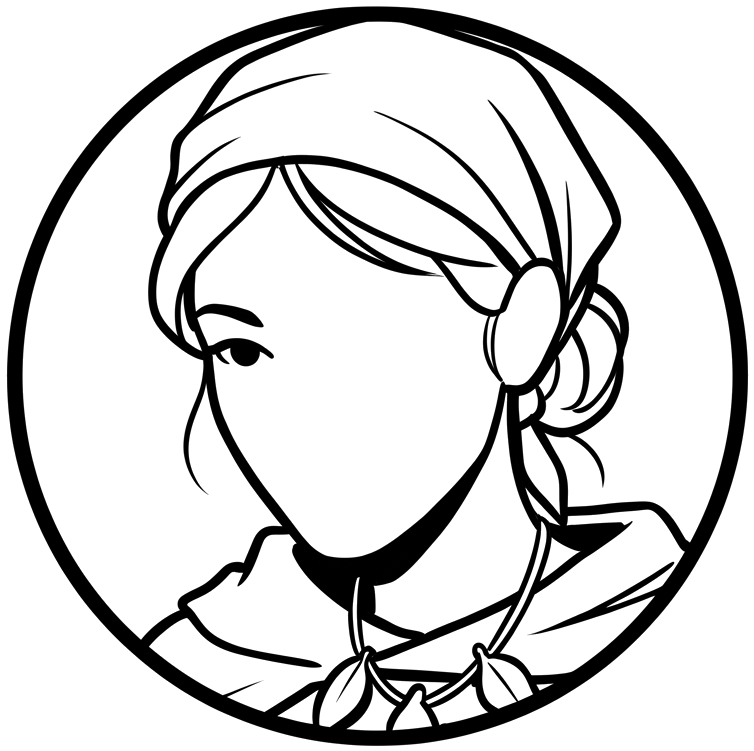
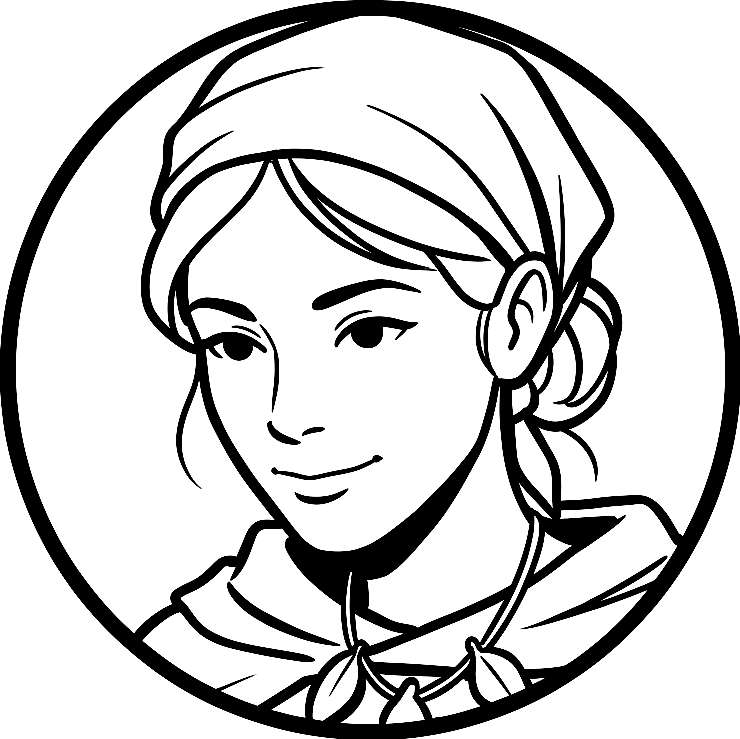
Fix fight/equip/drink log messages to use flavor names, plus pending champion/UI work
- Fight, equip, and drink log messages now show flavor names (e.g.
  "The Lich", "Excalibur", "Large Potion") instead of raw poker card
  names (e.g. "4 of Spades"), looked up via monsterNameFor()/
  weaponNameFor()/potionNameFor() keyed off baseRank.
- Includes other in-progress champion artwork/UI changes already
  present in the working tree.

diff --git a/js/ui.js b/js/ui.js
@@ -147,6 +147,94 @@ function renderChampionBadge() {
   badge.title = champ ? `${champ.name} — ${champ.description}` : '';
 }
 
+/** Returns { total, filled, label } describing the current champion's
+ * repeating-passive progress bar (see #champion-ability-bar in style.css),
+ * or null if the current champion has no such bar (Berserker, or no
+ * champion picked yet). `filled` is always in [0, total].
+ *   - Paladin: 5 segments, one per kill since the last heal-trigger — heals
+ *     3 HP every 5th kill (state.monstersDefeated), so filled cycles
+ *     1..5 and shows a full bar right after a heal instead of resetting to
+ *     0 in the same instant it triggers (state.monstersDefeated itself
+ *     never resets — it's a running total — so the cycle is derived here).
+ *   - Rogue: 2 segments, one per room fled in a row (state.fleeStreak,
+ *     already reset to 0 whenever a room is completed or a new game
+ *     starts — see resolveCard()/fleeRoom() in state.js).
+ *   - Herbalist: 2 segments, one per potion that actually healed this room
+ *     (state.potionsDrunkThisRoom, already reset to 0 on every new room —
+ *     see resolveCard()/fleeRoom() in state.js). */
+function championAbilityProgress() {
+  if (state.champion === 'paladin') {
+    const total = 5;
+    const filled = state.monstersDefeated === 0 ? 0 : ((state.monstersDefeated - 1) % total) + 1;
+    return { total, filled, label: `${filled} / ${total} kills until Paladin's heal` };
+  }
+  if (state.champion === 'rogue') {
+    const total = 2;
+    return { total, filled: Math.min(state.fleeStreak, total), label: `${state.fleeStreak} / ${total} rooms fled in a row` };
+  }
+  if (state.champion === 'herbalist') {
+    const total = 2;
+    return { total, filled: Math.min(state.potionsDrunkThisRoom, total), label: `${state.potionsDrunkThisRoom} / ${total} potions healed this room` };
+  }
+  return null;
+}
+
+// Paladin's full-bar heal celebration (see renderChampionAbilityBar()'s
+// animateHeal option below): hold the full 5/5 bar this long, then drain it
+// back to empty over this long. The drain duration is kept in sync with the
+// .ability-bar--draining transition-duration in style.css.
+const PALADIN_HEAL_HOLD_MS = 1000;
+const PALADIN_HEAL_DRAIN_MS = 1000;
+
+/** Fills #champion-ability-bar with one segment per championAbilityProgress()
+ * step, or hides it entirely for a champion without one. Called from
+ * renderAll(), so it stays current after every fight/flee/potion/new room.
+ * @param options.animateHeal - pass true only on the fight that completed a
+ *   Paladin 5-kill cycle (result.paladinCycleComplete from fightMonster(),
+ *   threaded through resolveCard()): the bar still renders full immediately
+ *   (state already reflects the completed cycle), but after a beat it fades
+ *   back to empty instead of silently jumping to the next cycle's 1/5 on the
+ *   following kill, so the heal reads as a clear, celebratory beat. */
+function renderChampionAbilityBar(options = {}) {
+  const bar = document.getElementById('champion-ability-bar');
+  const progress = championAbilityProgress();
+  bar.classList.remove('ability-bar--draining');
+
+  if (!progress) {
+    bar.classList.add('hidden');
+    bar.innerHTML = '';
+    bar.title = '';
+    return;
+  }
+
+  bar.classList.remove('hidden');
+  bar.title = progress.label;
+  bar.innerHTML = '';
+  for (let i = 0; i < progress.total; i++) {
+    const segment = document.createElement('div');
+    segment.className = 'ability-segment' + (i < progress.filled ? ' ability-segment--filled' : '');
+    bar.appendChild(segment);
+  }
+
+  if (options.animateHeal) {
+    setTimeout(() => {
+      bar.classList.add('ability-bar--draining');
+      // Two nested rAFs so the browser paints the (slow-transition) class
+      // before the filled class comes off — otherwise the removal can land
+      // in the same style-recalc as the class add and skip the transition
+      // entirely, jumping straight to empty instead of fading.
+      requestAnimationFrame(() => {
+        requestAnimationFrame(() => {
+          bar.querySelectorAll('.ability-segment--filled').forEach((seg) => {
+            seg.classList.remove('ability-segment--filled');
+          });
+        });
+      });
+      setTimeout(() => bar.classList.remove('ability-bar--draining'), PALADIN_HEAL_DRAIN_MS);
+    }, PALADIN_HEAL_HOLD_MS);
+  }
+}
+
 function renderHp() {
   const pct = Math.max(0, Math.min(100, (state.hp / state.maxHp) * 100));
   const fill = document.getElementById('hp-fill');
@@ -431,6 +519,7 @@ function renderChampionSelect() {
 
 function renderAll() {
   renderChampionBadge();
+  renderChampionAbilityBar();
   renderHp();
   renderRoom();
   renderDeckCount();
@@ -562,20 +651,20 @@ function animateWeaponToSlot(cardEl, onDone) {
 
 // --- weapon-attack animation -------------------------------------------------
 
-// Total ~2s, split into three legs so it reads as one fluid swing rather than
-// a linear slide: swing out to the monster (ease-in, gathering speed), a
+// Total ~1.5s, split into three legs so it reads as one fluid swing rather
+// than a linear slide: swing out to the monster (ease-in, gathering speed), a
 // brief pause right on impact, then swing back into the weapon slot
 // (ease-out, settling in). Driven by transform transitions rather than a
 // fixed @keyframes animation because the start (weapon slot) and end (the
 // clicked monster card) positions are measured at runtime and differ every
 // time.
-const WEAPON_ATTACK_OUT_MS = 800;
-const WEAPON_ATTACK_IMPACT_MS = 150;
-const WEAPON_ATTACK_RETURN_MS = 1050;
+const WEAPON_ATTACK_OUT_MS = 600;
+const WEAPON_ATTACK_IMPACT_MS = 113;
+const WEAPON_ATTACK_RETURN_MS = 788;
 
 /** Animates the actual equipped-weapon card (not a clone) flying out of the
  * weapon slot to strike `monsterEl`, then flying back into the slot — about
- * 2 seconds total. Moving the real element (rather than a cloned stand-in
+ * 1.5 seconds total. Moving the real element (rather than a cloned stand-in
  * left floating over the slot) means there's never a duplicate card visible
  * anywhere — the slot is simply empty-looking for the instant its card is
  * "out" fighting. `onImpact()` fires the moment the weapon visually lands

diff --git a/js/state.js b/js/state.js
@@ -134,9 +134,15 @@ function fightMonster(card, useWeapon = true) {
   // always "defeated" once its card resolves — there's no monster HP to
   // track separately.
   let paladinHeal = 0;
+  // True on the exact kill that completes a 5-kill cycle, even if the heal
+  // itself was capped to 0 HP by an already-full health bar — the ability
+  // bar (see renderChampionAbilityBar() in ui.js) still plays its "full,
+  // then drain" animation on the milestone kill either way.
+  let paladinCycleComplete = false;
   if (state.champion === 'paladin') {
     state.monstersDefeated += 1;
     if (state.monstersDefeated % 5 === 0) {
+      paladinCycleComplete = true;
       const hpBefore = state.hp;
       state.hp = Math.min(state.hp + 3, state.maxHp);
       paladinHeal = state.hp - hpBefore;
@@ -144,39 +150,47 @@ function fightMonster(card, useWeapon = true) {
   }
 
   let message;
-  const how = weaponUsable ? ` with your ${weapon.name}` : ' bare-handed';
+  // Show flavor names (e.g. "Shadow Assassin", "Mjölnir"), never raw poker
+  // card names (e.g. "8 of Clubs", "9 of Diamonds"), in the fight log.
+  // Monster lookup uses baseRank so a weakened monster (see
+  // weakenMonster()) still shows the right creature.
+  const monsterLabel = monsterNameFor(card.baseRank) || card.name;
+  const weaponLabel = weaponUsable ? weaponNameFor(weapon.baseRank) || weapon.name : null;
+  const how = weaponUsable ? ` with your ${weaponLabel}` : ' bare-handed';
   if (weaponUsable && weapon.effect === 'vampiric') {
     state.hp = Math.min(state.hp + 1, state.maxHp);
-    message = `Fought ${card.name}${how} — took ${damage} damage. Vampiric weapon healed 1 HP.`;
+    message = `Fought ${monsterLabel}${how} — took ${damage} damage. Vampiric weapon healed 1 HP.`;
   } else if (weaponUsable && weapon.effect === 'electric') {
-    message = `Fought ${card.name}${how} — took ${damage} damage. Electric surge weakened the other monsters!`;
+    message = `Fought ${monsterLabel}${how} — took ${damage} damage. Electric surge weakened the other monsters!`;
   } else {
-    message = `Fought ${card.name}${how} — took ${damage} damage.`;
+    message = `Fought ${monsterLabel}${how} — took ${damage} damage.`;
   }
   if (paladinHeal > 0) {
     message += ` Paladin's faith healed ${paladinHeal} HP.`;
   }
 
-  return { message, weakenedIds };
+  return { message, weakenedIds, paladinCycleComplete };
 }
 
 function equipWeapon(card) {
   state.equippedWeapon = card;
   state.weaponMaxMonster = null; // fresh weapon: no restriction until first use
-  return { message: `Equipped ${card.name}.` };
+  const weaponLabel = weaponNameFor(card.baseRank) || card.name;
+  return { message: `Equipped ${weaponLabel}.` };
 }
 
 function drinkPotion(card) {
   // Normally only the first potion in a room heals; the Herbalist champion
   // raises that cap to two.
+  const potionLabel = potionNameFor(card.baseRank) || card.name;
   const maxHealingPotions = state.champion === 'herbalist' ? 2 : 1;
   if (state.potionsDrunkThisRoom >= maxHealingPotions) {
-    return { message: `Drank ${card.name} — already healed this room, no effect.` };
+    return { message: `Drank ${potionLabel} — already healed this room, no effect.` };
   }
   const healed = Math.min(card.rank, state.maxHp - state.hp);
   state.hp += healed;
   state.potionsDrunkThisRoom += 1;
-  return { message: `Drank ${card.name} — healed ${healed} HP.` };
+  return { message: `Drank ${potionLabel} — healed ${healed} HP.` };
 }
 
 /**

diff --git a/style.css b/style.css
@@ -674,6 +674,12 @@ button:disabled::before {
   height: 5rem;
 }
 
+.champion-select-portrait img {
+  width: 100%;
+  height: 100%;
+  object-fit: contain;
+}
+
 .champion-select-portrait .portrait-placeholder {
   font-size: 2rem;
 }
@@ -749,6 +755,18 @@ button:disabled::before {
   font-size: 0.9rem;
 }
 
+/* Stacks the HP bar and the champion-ability bar directly beneath it in a
+   column, both the same width (11.25rem, matching #hp-bar) — kept as its
+   own wrapper rather than putting the ability bar inside #hp-bar-container
+   so that container's 50%/50% floating-number anchor (see
+   #hp-float-container below) stays centered on the HP bar alone, not on
+   the taller combined column. */
+#hp-bar-column {
+  display: flex;
+  flex-direction: column;
+  gap: 0.25rem;
+}
+
 /* Positioning anchor for the floating +N / -N numbers (#hp-float-container),
    which need to sit centered above the bar regardless of its own size. */
 #hp-bar-container {
@@ -798,6 +816,42 @@ button:disabled::before {
   color: var(--text-muted);
   min-width: 4.375rem;
   text-align: left;
+}
+
+/* Thin per-champion progress bar directly under the HP bar, same width
+   (11.25rem, via #hp-bar-column above) — shows progress toward whichever
+   champion's passive triggers repeatedly during a run (Paladin's every-5th-
+   kill heal, Rogue's flee streak, Herbalist's potions-per-room). Segment
+   count varies by champion (buildChampionAbilitySegments() in js/ui.js);
+   hidden entirely for a champion without one of these (Berserker) or no
+   champion picked. Segments are always green when filled — deliberately
+   not tied to the card-tier color system, this is a simple fill gauge. */
+#champion-ability-bar {
+  display: flex;
+  gap: 2px;
+  width: 11.25rem;
+  height: 0.25rem;
+}
+
+.ability-segment {
+  flex: 1;
+  border-radius: 0.125rem;
+  background: rgba(255, 255, 255, 0.08);
+  box-shadow: inset 0 1px 2px rgba(0, 0, 0, 0.5);
+  transition: background 0.25s ease, box-shadow 0.25s ease;
+}
+
+.ability-segment--filled {
+  background: var(--success);
+  box-shadow: 0 0 4px rgba(46, 204, 113, 0.7);
+}
+
+/* Paladin's full-bar heal celebration (see renderChampionAbilityBar()'s
+   animateHeal option in js/ui.js): scoped to this state only, so the bar's
+   normal instant-ish segment updates elsewhere (0.25s, above) aren't slowed
+   down — only the post-heal drain from 5/5 back to empty fades over ~1s. */
+#champion-ability-bar.ability-bar--draining .ability-segment {
+  transition: background 1s ease, box-shadow 1s ease;
 }
 
 /* --- floating "+7" / "-4" combat numbers ------------------------------- */

diff --git a/js/main.js b/js/main.js
@@ -111,6 +111,7 @@ function applyResolve(cardId, options) {
   showHpDelta(state.hp - hpBefore);
   renderWeaponSlot();
   renderMessage(result.message);
+  renderChampionAbilityBar({ animateHeal: !!result.paladinCycleComplete });
 
   // Electric weapon effect: play a "-1" + shake on each monster it weakened,
   // while their card elements are still the ones actually in the DOM.
@@ -250,6 +251,7 @@ document.getElementById('flee-btn').addEventListener('click', () => {
   renderRoom();
   renderDeckCount();
   renderFleeButton();
+  renderChampionAbilityBar();
 });
 
 document.getElementById('weapon-toggle').addEventListener('change', (event) => {

diff --git a/index.html b/index.html
@@ -31,9 +31,12 @@
 
     <div id="hp-bar-wrapper">
       <div id="champion-badge"></div>
-      <div id="hp-bar-container">
-        <div id="hp-bar"><div id="hp-fill"></div></div>
-        <div id="hp-float-container"></div>
+      <div id="hp-bar-column">
+        <div id="hp-bar-container">
+          <div id="hp-bar"><div id="hp-fill"></div></div>
+          <div id="hp-float-container"></div>
+        </div>
+        <div id="champion-ability-bar" class="hidden"></div>
       </div>
       <span id="hp-text">20 / 20 HP</span>
     </div>

diff --git a/js/weapon-icons.js b/js/weapon-icons.js
@@ -7,8 +7,8 @@
 // ---------------------------------------------------------------------------
 
 const WEAPON_NAMES = {
-  2: 'Wooden Club (Damaged)',
-  3: 'Old Sword (Damaged)',
+  2: 'Wooden Club',
+  3: 'Damaged Sword',
   4: 'Spear',
   5: 'Sword',
   6: 'Battle Axe',

diff --git a/CLAUDE.md b/CLAUDE.md
@@ -450,13 +450,44 @@ card game by Zach Gage & Kurt Bieg, built with plain HTML/CSS/JavaScript
   than a rank — champions aren't cards) came from a user-supplied 2x2
   sprite sheet (`images/ChampionsIcons.jpeg`, kept as source reference:
   top-left Paladin, top-right Herbalist, bottom-left Rogue, bottom-right
-  Berserker), cropped the same way as the monster/weapon art — alpha = 255
-  − min(R,G,B) per pixel (transparent background, forced-black linework),
-  largest-connected-component only (drops the sheet's circle-border
-  fragments outside each portrait), then tightly cropped to that shape's
-  bounding box with a small padding. Unlike the monster/weapon sheets these
-  are actual line-art portraits (not silhouettes), but the same alpha trick
-  works fine since the source art is pure black-on-white to begin with.
+  Berserker), cropped similarly to the monster/weapon art but with one
+  deliberate difference: **plain `alpha = 255 − min(R,G,B)` is not enough
+  for line-art portraits.** A first pass used that plain formula and left
+  thin single-pixel linework (eyes especially — Herbalist/Rogue/Berserker
+  all lost eye detail) at very low alpha (~15-35/255), because JPEG
+  compression anti-aliases thin lines into light gray rather than solid
+  black. At low alpha those lines are nearly invisible against the light
+  `--card-bg` they render on (though they can look deceptively fine in a
+  raw image viewer/preview on a dark background, which is why this shipped
+  unnoticed once already — always preview champion art composited on a
+  light background, not just as a bare transparent PNG). The fix: contrast-
+  stretch the darkness value before using it as alpha —
+  `alpha = clip((darkness − LOW) / (HIGH − LOW), 0, 1) × 255` with
+  `LOW≈12, HIGH≈90` — so any pixel meaningfully darker than the paper-white
+  background snaps close to fully opaque instead of staying a faint gray.
+  After that: tightly cropped to the alpha mask's bounding box with a
+  small padding, same as the monster/weapon art. Apply this same
+  contrast-stretch (not the plain monster/weapon formula) to any future
+  line-art crop (more champions, or any other non-silhouette art) —
+  silhouette-style monster/weapon art doesn't need it since those are
+  solid fills, not thin outlines.
+  **Second bug, found later (all 4 champions again lost detail — Paladin's
+  second eye, Herbalist's entire eyes/nose/mouth, Berserker's second eye):**
+  the crop script's "largest-connected-component only" step (meant to drop
+  the sheet's circle-border fragments outside each portrait) was far too
+  aggressive — a face's eyes/nose/mouth are drawn as strokes that don't
+  touch the outer hair/hood/helmet outline, so they're each their own
+  *separate* connected component and got deleted right along with the
+  actual border fragments, since only the single largest component
+  survived. **Never filter line-art down to just the largest connected
+  component** — instead keep every component above a tiny pixel-count
+  floor (e.g. ~8px, enough to drop JPEG noise specks but keep every real
+  stroke including small disconnected ones) and rely on a per-portrait
+  crop rectangle to keep neighboring circles' fragments out in the first
+  place. Re-verify against the source reference sheet (composited on a
+  light background, per the paragraph above) after any recrop — a missing
+  eye or facial feature is easy to miss at a glance since the silhouette
+  still reads as "a face."
 - Champions aren't cards, so this artwork never goes through
   `fillCardFace()` — it's shown via the shared `fillPortrait()` helper
   (`js/ui.js`) instead, in three places: the Champions gallery tiles, the
